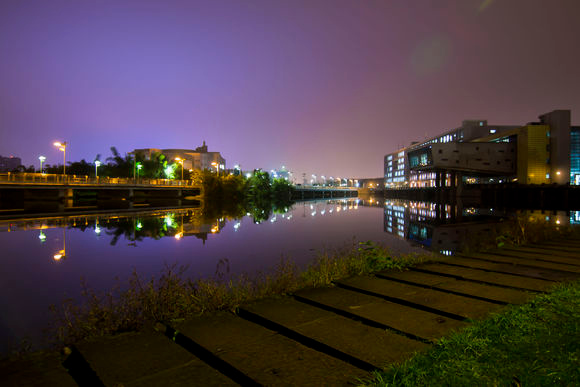
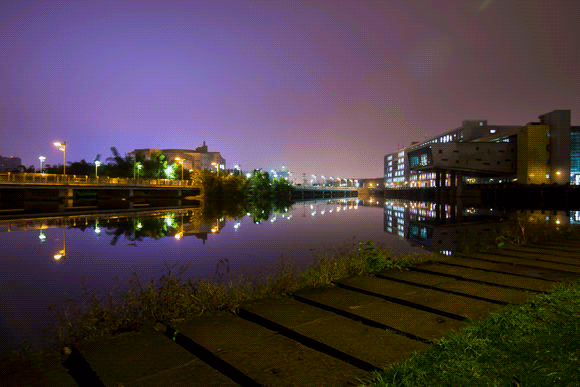
压缩图片，修复几处显示错位
压缩图片，修复几处显示错位

diff --git a/client/pages/stu_index/stu_index.js b/client/pages/stu_index/stu_index.js
@@ -60,7 +60,7 @@ Page({
                    //渲染 日期
                     let temp = new Date()
                     var date = `${temp.getFullYear()} 年 ${temp.getMonth()+1} 月 ${temp.getDate()} 日`
-                    var day = `星期${week_table[parseInt(temp.getDay())]}`
+                    var day = `星期${week_table[parseInt(temp.getDay())-1]}`
                     var week = `第 ${require("./helper/week.js")(res.data.week_info[0].start)} 教学周`
                     this.setData({
                         week:{
@@ -130,6 +130,19 @@ Page({
     add_course(){
         wx.redirectTo({
           url: `../add_course/add_course?identity=${this.data.identity}`
+        })
+    },
+    contact_us(){
+        wx.showModal({
+            title: '联系方式',
+            content: '邮箱：972931182@qq.com QQ同号',
+            showCancel: false,
+            confirmText: "我知道啦"
+        })
+    },
+    back_toIndex(){
+        wx.redirectTo({
+            url: `../stu_index/stu_index?identity=${this.data.identity}`
         })
     }
 })

diff --git a/client/pages/index/index.js b/client/pages/index/index.js
@@ -29,8 +29,8 @@ Page({
 
     //判断时间
     var date = new Date()
-    //var hours = date.getHours()
-    var hours = this.data.test_hours;
+    var hours = date.getHours()
+    //var hours = this.data.test_hours;
     console.log("hours",hours,typeof hours);
     if( hours > 5 && hours<=12){
       console.log('morning');

diff --git a/client/app.js b/client/app.js
@@ -4,6 +4,6 @@ var config = require('./config')
 
 App({
     onLaunch: function () {
-        qcloud.setLoginUrl(config.service.loginUrl)
+        //qcloud.setLoginUrl(config.service.loginUrl)
     }
 })
